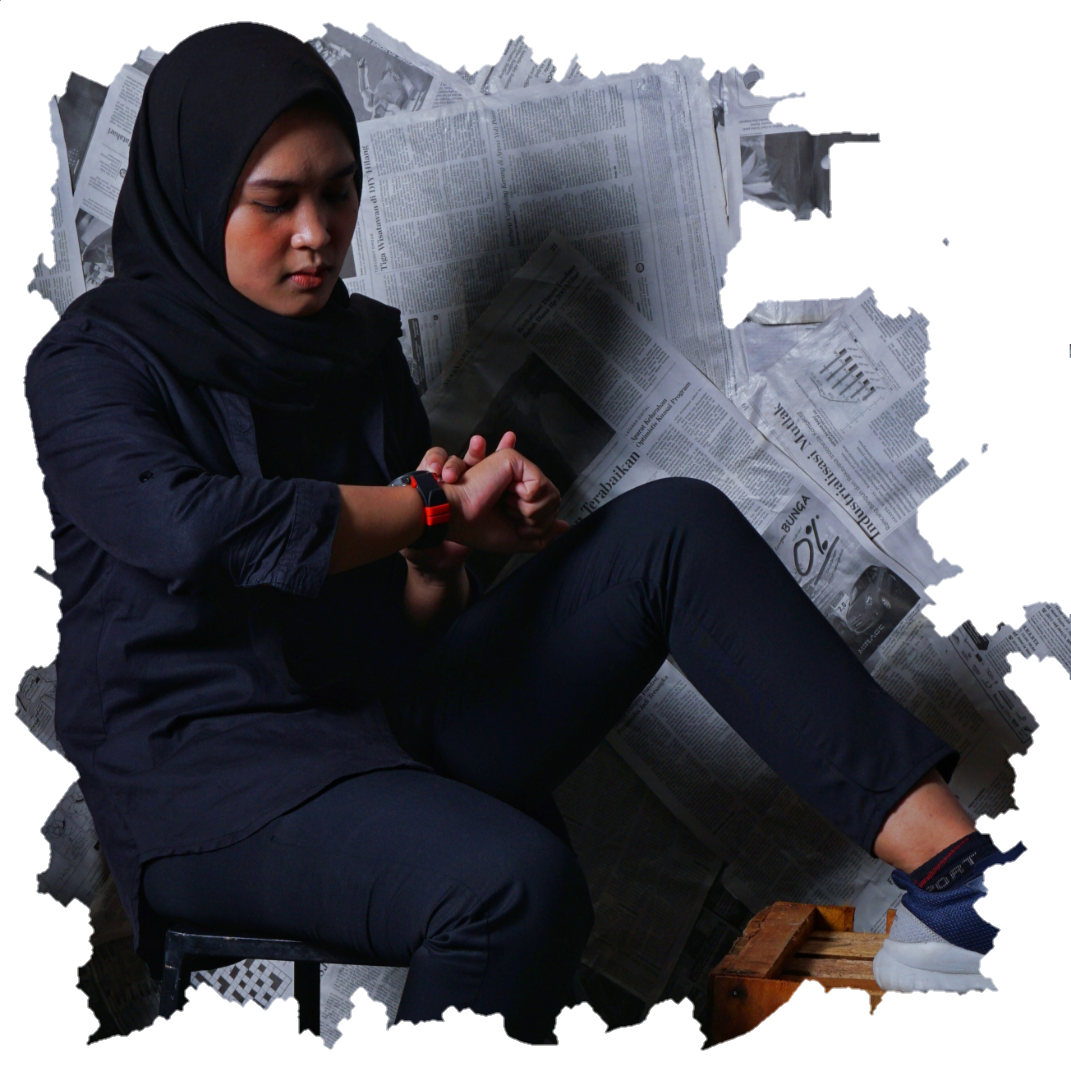
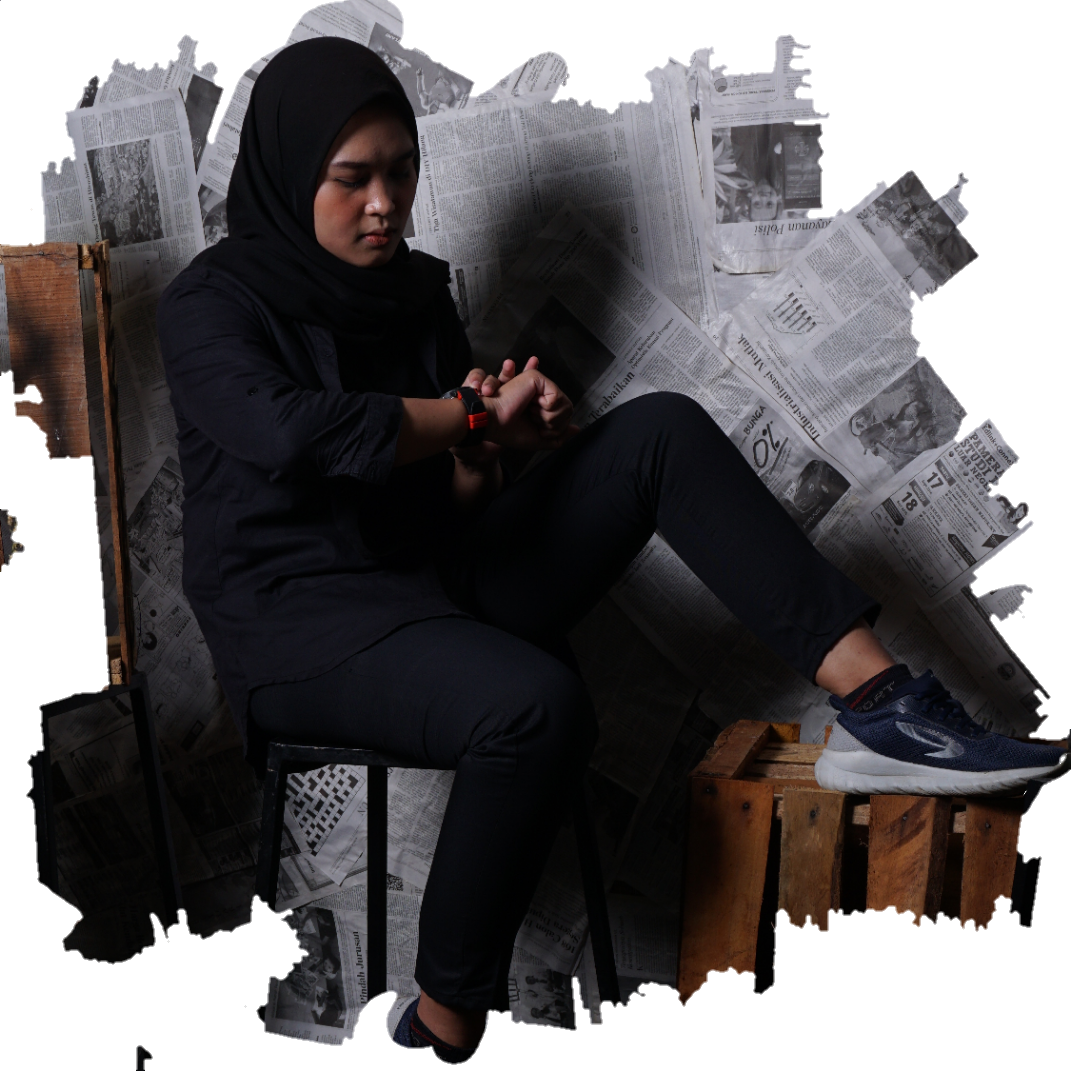
memperbaiki beberapa tampilan

diff --git a/index.htm b/index.htm
@@ -14,27 +14,26 @@
   <header>
     <nav class="navbar navbar-expand-lg fixed-top navbar-dark ">
       <div class="container-fluid">
-        <!-- <a href="" class="navbar-brand pl-4"><b>D</b>inda</a> -->
-        <img src="image/rr.jpg" width="30" height="30" class="img-responsive rounded-circle">
+        <img src="image/me-1.jpg" width="35" height="35" class="img-responsive rounded-circle">
 
         <button class="navbar-toggler" type="button" data-toggle="collapse" data-target="#sidebar"
           aria-controls="sidebar" aria-expanded="false" aria-label="Toggle navigation">
           <span class="navbar-toggler-icon"></span>
         </button>
 
-        <nav class="collapse navbar-collapse justify-content-end pr-2" id="sidebar">
+        <nav class="collapse navbar-collapse justify-content-end p-2" id="sidebar">
           <ul class="navbar-nav">
             <li class="navbar-item">
-              <a href="" class="nav-link text-white mr-2">Home</a>
+              <a href="" class="nav-link mr-2">Home</a>
             </li>
             <li class="navbar-item">
-              <a href="#abm" class="nav-link text-white mr-2">About Me</a>
+              <a href="#abm" class="nav-link mr-2">About Me</a>
             </li>
             <li class="navbar-item">
-              <a href="#pjct" class="nav-link text-white mr-2">Project</a>
+              <a href="#pjct" class="nav-link mr-2">Project</a>
             </li>
             <li class="navbar-item">
-              <a href="" class="nav-link text-white mr-2">Contact</a>
+              <a href="#cont" class="nav-link mr-2">Contact</a>
             </li>
           </ul>
         </nav>
@@ -44,13 +43,13 @@
     <div class="container">
       <div class="row img-profil d-flex align-items-center">
         <div class="col-lg-6 imga">
-          <img src="image/me-2.png" width="350" height="350" class="img-responsive float-right">
+          <img src="image/me-4.png" width="350" height="350" class="img-responsive float-right">
         </div>
         <div class="col-lg-6 text-profil">
           <div class="text-white">
             <h2>Hello, I'm <span>Dinda</span></h2>
             <p>Freelance Fullstack Developer</p>
-            <button class="btn btn-md btn-cv text-white">See My Cv</button>
+            <a href="" type="button" class="btn text-white">See My CV</a>
           </div>
         </div>
       </div>
@@ -64,18 +63,14 @@
       </h1>
     </div>
     <div class="img-me p-2 mt-4 d-flex justify-content-center">
-      <img src="image/me-6.jpg" height="120" width="120" class="img-responsive rounded-circle">
+      <img src="image/me-3.jpg" height="120" width="120" class="img-responsive rounded-circle">
     </div>
     <div class="text-me mt-2 text-center d-flex justify-content-center">
       <p class="w-75">
-        Hi everyone, I'm <b>Dinda Cinthya Sari</b> a Freelance Fullstack Developer. I'm an RPL (Software Engineer)
-        graduate from
-        Vocation High School
-        Generasi Madani. I'm someone who has a high interest in the world of Programming, especially Web
-        Programming
-        Experienced with all stages of the development cycle for dynamic web project. Well-versed in
-        numerous
-        programming languages including HTML5, PHP, JavaScript, CSS, MySQL.</p>
+        Hi everyone, I'm <b>Dinda Cinthya Sari</b> a Freelance Fullstack Developer. I'm an RPL (Software Engineering)
+        graduate from Vocation High School Generasi Madani. I'm someone who has a high interest in the world of
+        Programming, especially Web Programming. Experienced with all stages of the development cycle for dynamic web
+        project. Well-versed in numerous programming languages including HTML5, PHP, JavaScript, CSS, MySQL.</p>
     </div>
   </div>
 
@@ -133,28 +128,46 @@
           <textarea type="text" class="form-control " rows="5"></textarea>
         </div>
 
-        <a href="mailto:dindacs13@gmail.com" class="btn btn-danger mt-4 d-flex justify-content-center w-25">Submit</a>
+        <div class="d-flex justify-content-center align-items-center ">
+          <a href="mailto:dindacs13@gmail.com" class="btn mt-4 text-white" type="button">
+            Submit
+          </a>
+        </div>
       </form>
     </div>
-
-    <!-- <div class="col-lg-4">
-        <p class="text-social-media">
-          <i class="fa fa-instagram fa-2x"></i>
-          <a class="ml-2" href="http://">@dindacsari</a>
-        </p>
-        <p class="text-social-media">
-          <i class="fa fa-linkedin fa-2x"></i>
-          <a class="ml-2" href="http://">Dinda Cinthya Sari</a>
-        </p>
-        <p class="text-social-media">
-          <i class="fa fa-github fa-2x"></i>
-          <a class="ml-2" href="http://">Dinda Cinthya Sari</a>
-        </p>
-      </div> -->
   </div>
 
-  <div class="footer border-top w-100">
-    <p class="text-center text-muted m-4">&copy 2021 powered by <a href="">Dinda Cinthya Sari</a></p>
+  <div class="footer border-top container-fluid">
+    <div class="row">
+      <div class="col-lg-4">
+        <p class="text-center text-muted m-4">&copy 2021 powered by
+          <a href="">Dinda Cinthya Sari</a>
+        </p>
+      </div>
+      <div class="col-lg-6 m-4 d-flex justify-content-end">
+        <span class="text-social-media">Find Me On:</span>
+        <span class="text-social-media mr-2 ml-2">
+          <a href="http://">
+            <i class="fa fa-github"></i>
+          </a>
+        </span>
+        <span class="text-social-media mr-2 ml-2">
+          <a href="https://instagram.com/dindacsari">
+            <i class="fa fa-instagram"></i>
+          </a>
+        </span>
+        <span class="text-social-media mr-2 ml-2">
+          <a href="http://">
+            <i class="fa fa-linkedin"></i>
+          </a>
+        </span>
+        <span class="text-social-media mr-2 ml-2">
+          <a href="http://">
+            <i class="fa fa-twitter"></i>
+          </a>
+        </span>
+      </div>
+    </div>
   </div>
 
   <script src=" asset/js/jquery.js"></script>

diff --git a/asset/css/style.css b/asset/css/style.css
@@ -7,7 +7,6 @@ body{
   box-sizing: border-box;
   position: relative;
   font-family: Arial, Helvetica, sans-serif;
-  /* background-color: #0c0c0c; */
   background-color: #131313;
 }
 /* **************** */
@@ -34,7 +33,11 @@ header{
   font-size: 1.2rem;
 }
 
-.nav-item .nav-link:hover{
+.navbar-dark .navbar-nav .nav-link{
+  color:#fff;
+}
+
+.navbar-dark .navbar-nav .nav-link:hover{
   color: coral;
   cursor: pointer;
 }
@@ -49,10 +52,6 @@ header{
   width: 90%;
 }
 
-/* .text-profil{
-  top:-32px;
-} */
-
 .text-profil h2{
   font-size: 2.3rem;
   font-weight: bold;
@@ -66,11 +65,20 @@ header{
   color: coral;
 }
 
-.btn-cv{
-  background-color: coral;
-  border-color: coral;
+.btn, .form-control{
+  border-radius: 0px;
 }
 
+.btn{
+  border: 2px solid coral;
+  padding: 10px 20px;
+}
+
+.btn:hover{
+  background-color: coral;
+  border: 2px solid coral;
+  padding: 10px 20px;
+}
 /* **************** */
 .about-me{
   margin-top: 200px;
@@ -111,7 +119,17 @@ header{
 }
 
 .contact .form-control{
-  background-color: #f5f5f5;
+  background-color: #131313;
+}
+
+/* ******** */
+.footer{
+  overflow: hidden;
+}
+
+.footer a{
+  color: coral;
+  text-decoration: none;
 }
 
 .text-social-media{
@@ -121,3 +139,8 @@ header{
 .text-social-media i{
   color: #c1c3c5;
 }
+
+.text-social-media i:hover{
+  color: coral;
+}
+
